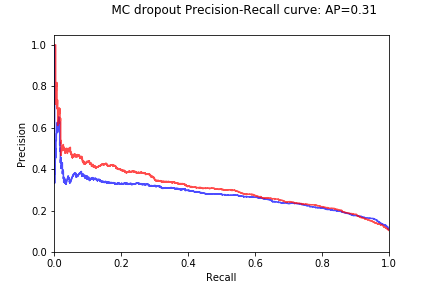
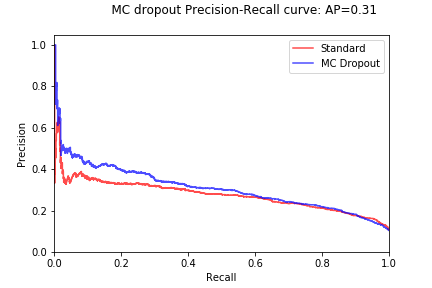
Update readme and plot

Changed region(s): [[0.1204, 0.1562, 0.9028, 0.8125], [0.662, 0.125, 0.9028, 0.2812]]

diff --git a/README.md b/README.md
@@ -14,5 +14,10 @@ https://github.com/yaringal/DropoutUncertaintyExps/blob/master/bostonHousing/net
 These scripts can be used as a starting point for implementing deep learning models using dropout Byesian
 approximation.
 
+The jupyter [notebook](notebooks/run_bbdl_experiment.ipynb) has provides a quick setup for running some experiments on the CIFAR-10 dataset, 
+comparing MC Dropout to a standard CNN model.
+
+![PRCurve](notebooks/class8.jpg?raw=true)
+
 
 [1] https://arxiv.org/abs/1506.02142
